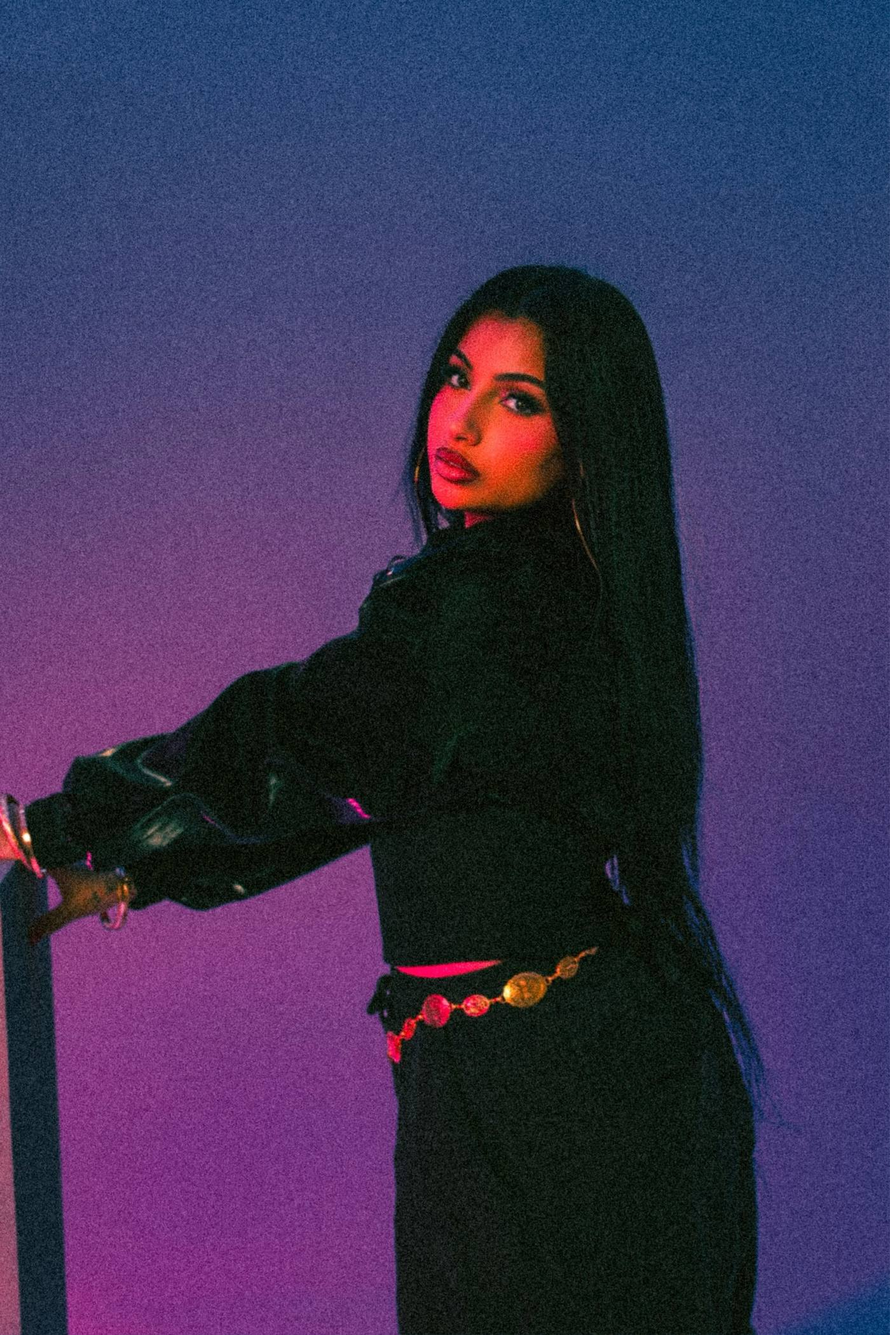
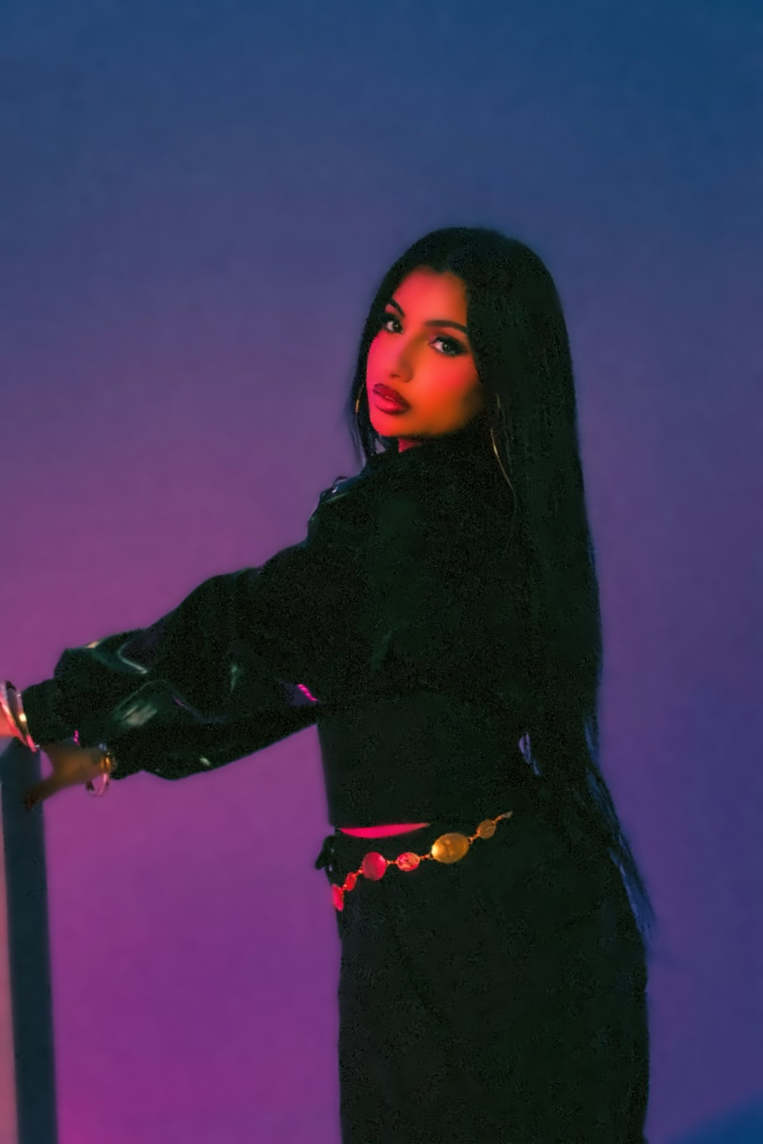
Cover: smoother photo, less zoom on wide screens; new reel thumbnails
Claude-Session: https://claude.ai/code/session_01Ae98BKKmEVjZtsC1xQpXnA

diff --git a/index.html b/index.html
@@ -144,14 +144,15 @@
       height: 100vh;
       min-height: 600px;
       overflow: hidden;
-      background: var(--bg);
+      /* backdrop colours taken from the photo, so the full-height picture blends in on wide screens */
+      background: linear-gradient(to bottom, #1E4371 0%, #4A4576 32%, #5E3E76 55%, #663A7C 78%, #6A3480 100%);
     }
     .cover-img {
       position: absolute;
       inset: 0;
       width: 100%; height: 100%;
       object-fit: cover;
-      object-position: 50% 26%;
+      object-position: 55% 30%;
       display: block;
     }
     .cover-fade {
@@ -722,7 +723,11 @@
 
   <!-- COVER -->
   <section id="cover">
-    <img class="cover-img" src="sb-cover-look.jpg" alt="Gäelle" />
+    <!-- wide screens get the version with the backdrop extended to the sides -->
+    <picture>
+      <source media="(min-aspect-ratio: 1/1)" srcset="sb-cover-wide.jpg" />
+      <img class="cover-img" src="sb-cover-look.jpg" alt="Gäelle" />
+    </picture>
     <div class="cover-fade"></div>
     <div class="cover-bottom">
       <span class="cover-ep-label" data-i18n="cover_label">Sensitive Baddie, the new EP. Out now</span>
